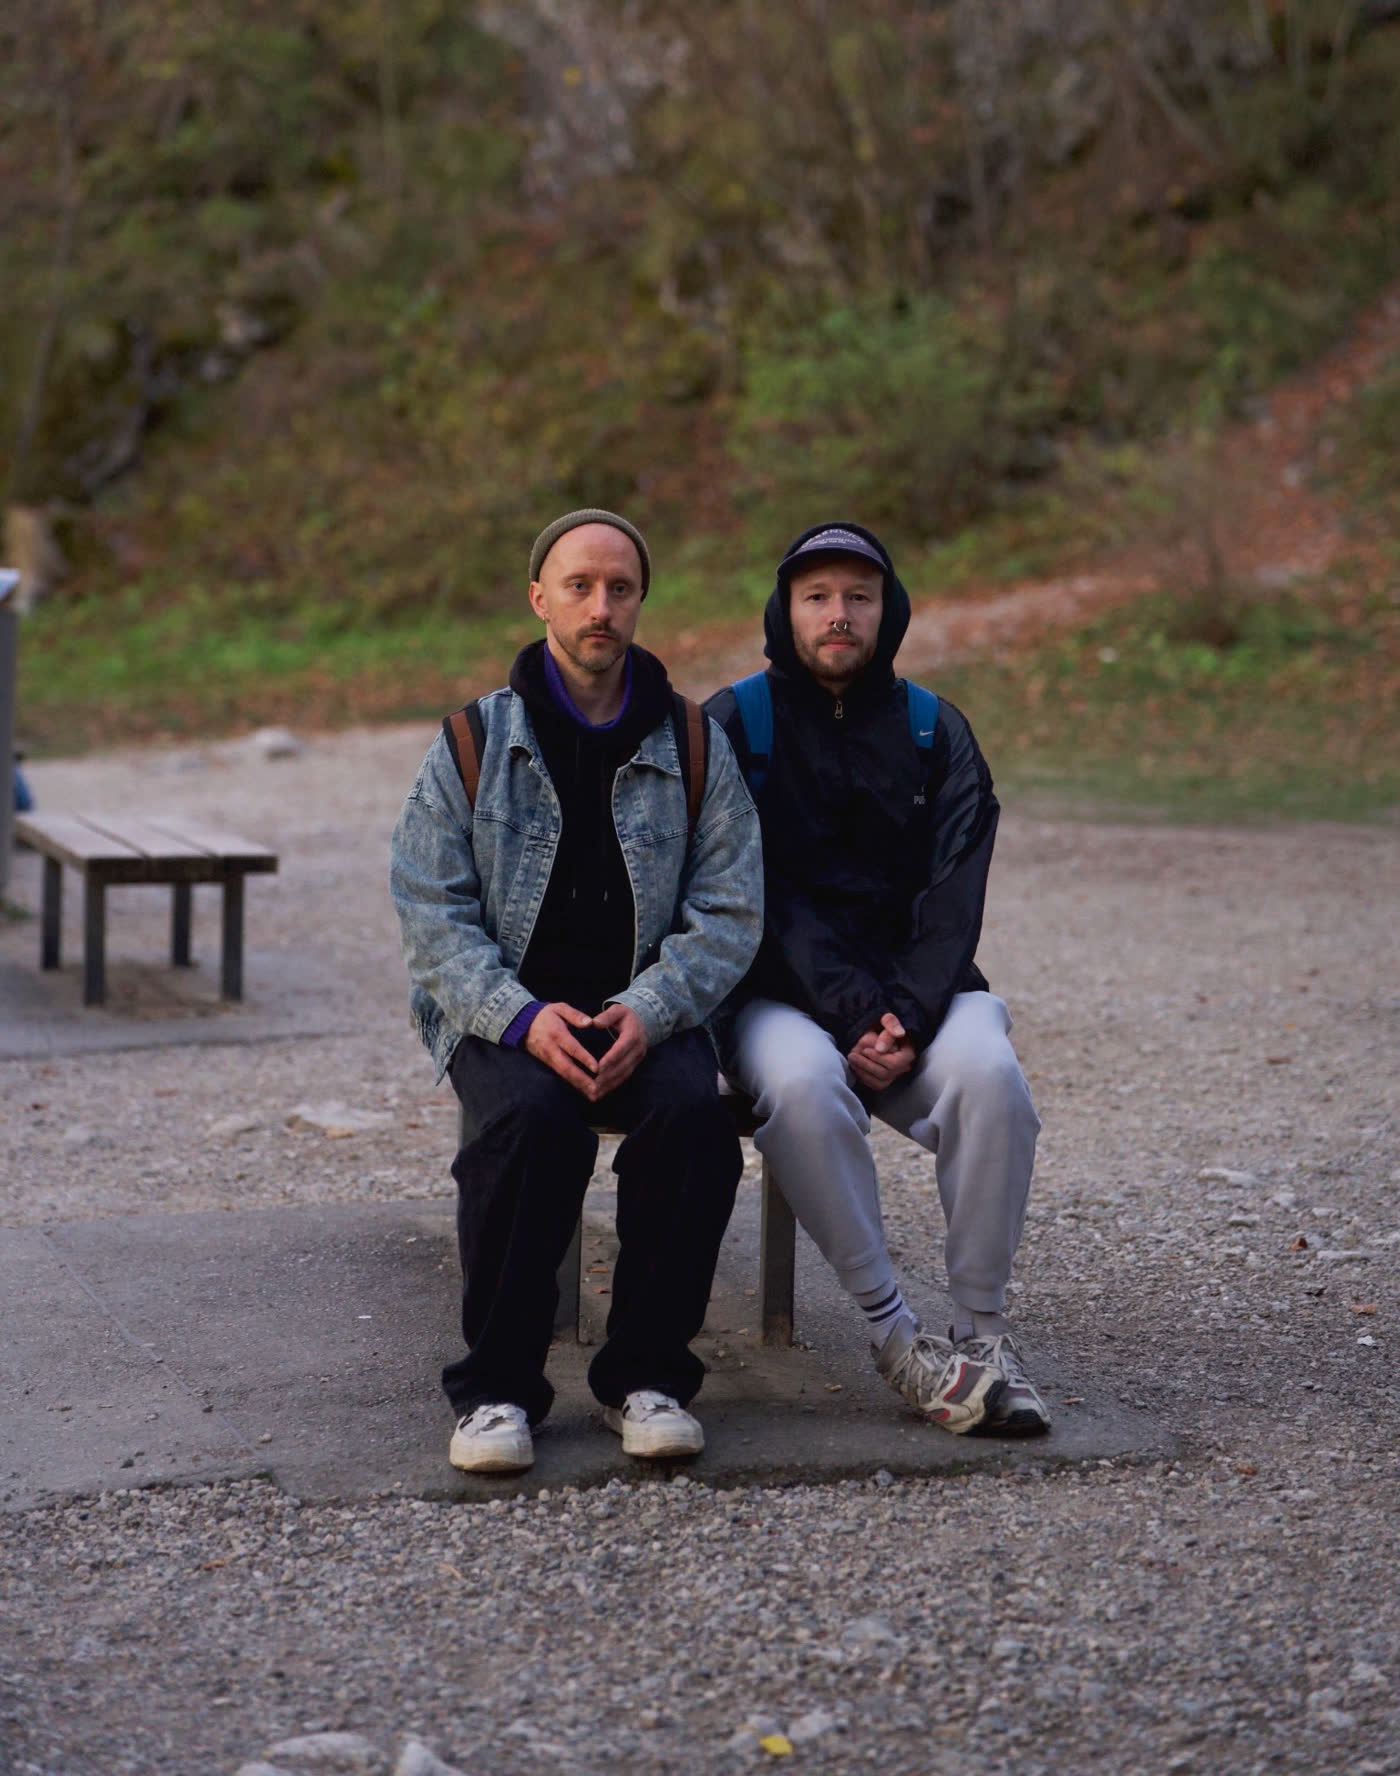
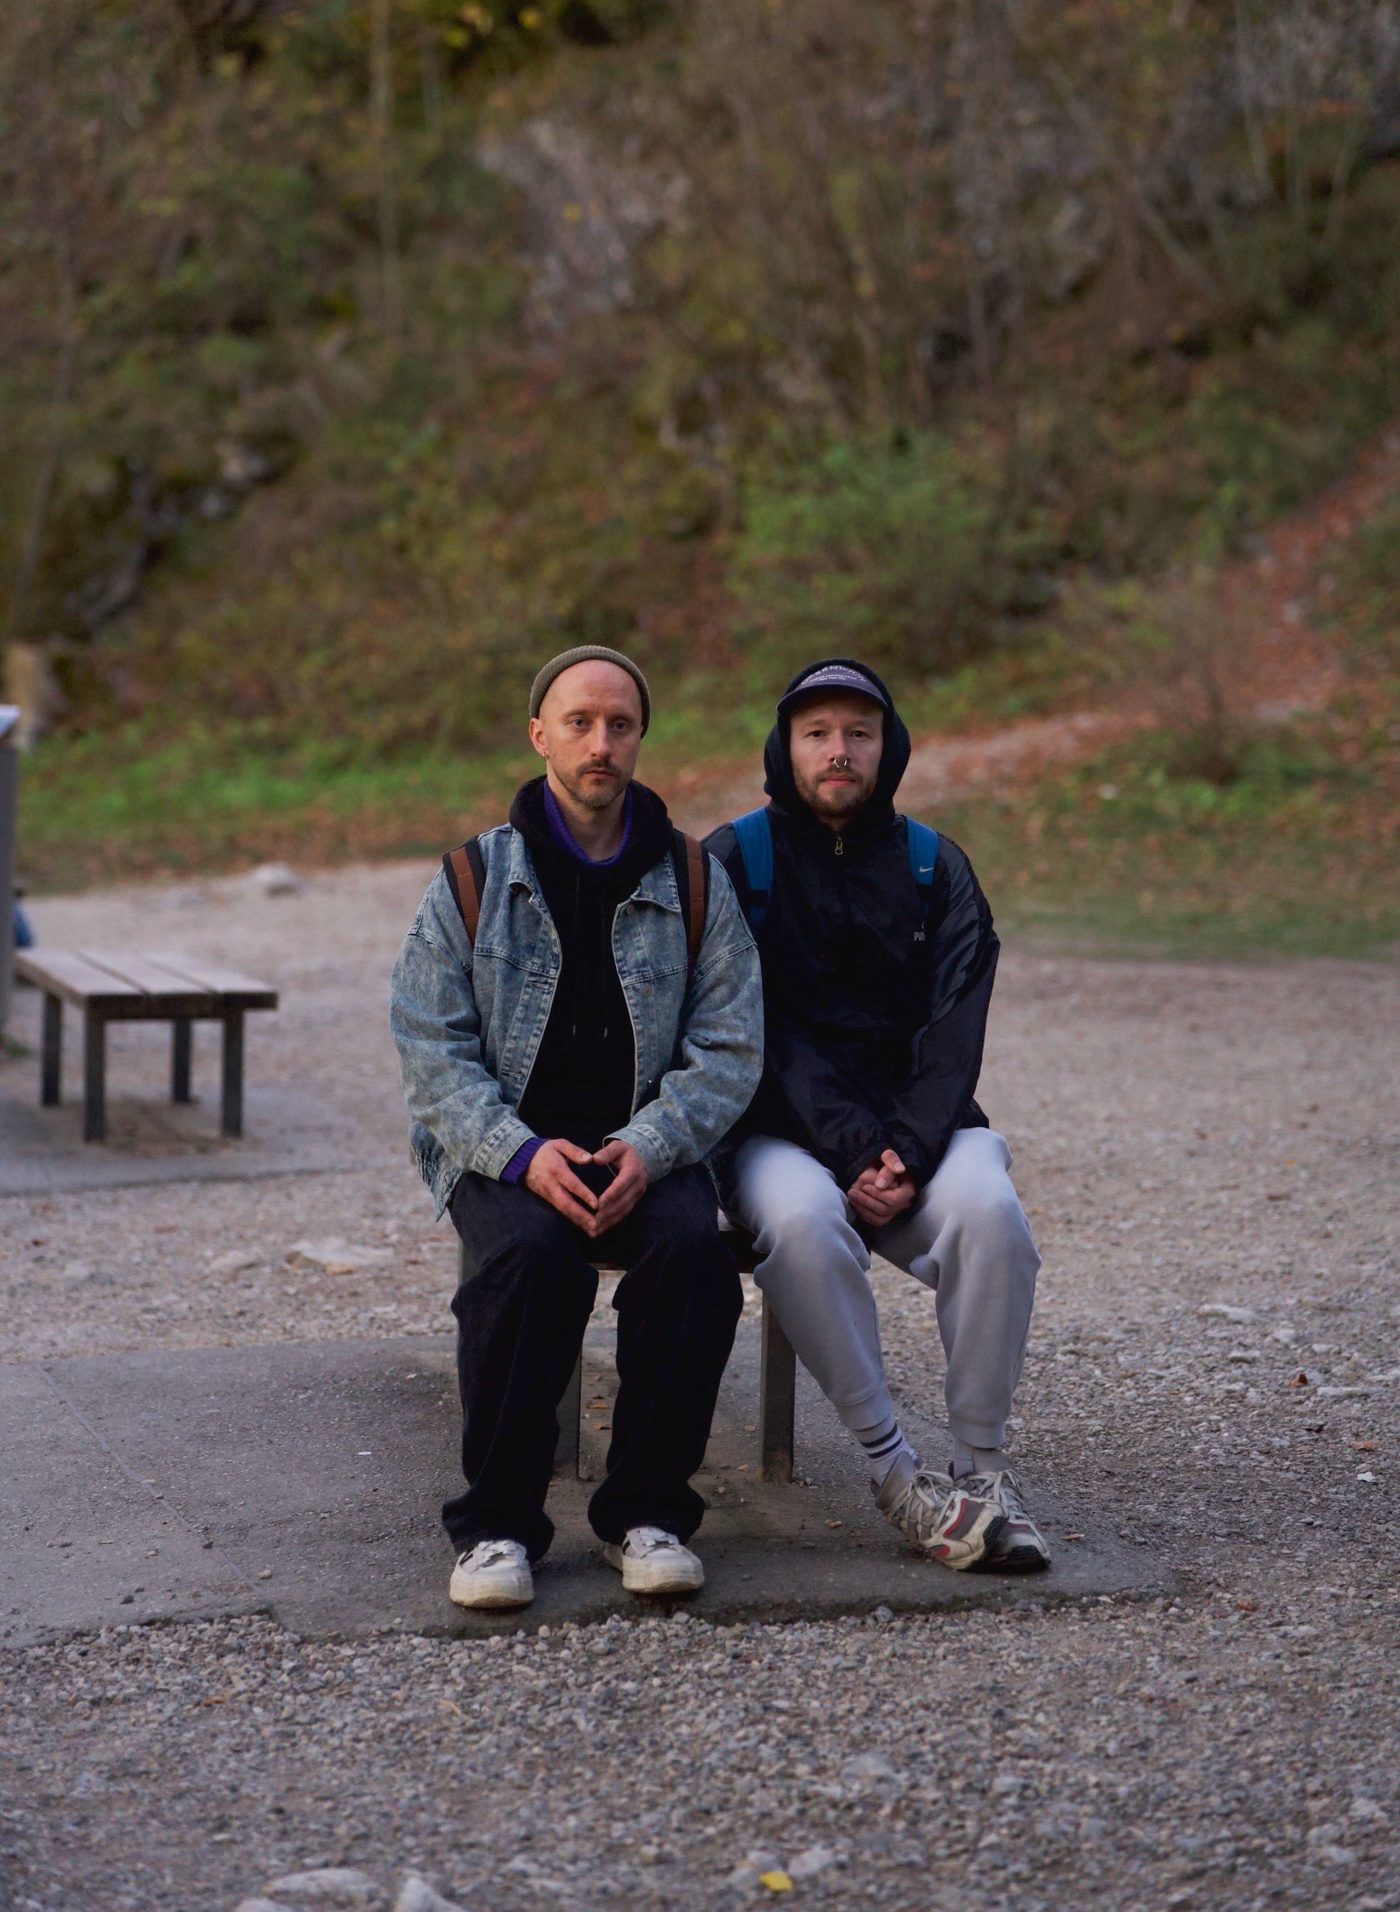
New photo on the play page; the photo keeps its real colours in light mode
Claude-Session: https://claude.ai/code/session_0112eXjUsvc9U8MgA6Gj25Ls

diff --git a/assets/css/fun.css b/assets/css/fun.css
@@ -17,8 +17,9 @@
 }
 /* Videos and photos behind the text: lifted and softened so dark footage turns into a
    light grey wash and black text stays readable on it. */
-:root[data-theme="light"] .bg-video video,
-:root[data-theme="light"] .bg-video img { filter: grayscale(.25) brightness(1.3) contrast(.72); }
+:root[data-theme="light"] .bg-video video { filter: grayscale(.25) brightness(1.3) contrast(.72); }
+/* The play page photo keeps its real colours and contrast in light mode: lifting and
+   softening it turned the whole page into a grey haze. */
 /* Menus stay black in light mode: light mode is only for reading the play */
 :root[data-theme="light"] .corner-menu,
 :root[data-theme="light"] .corner-panel,

diff --git a/de/theater/the-charlie-gordon-effect/index.html b/de/theater/the-charlie-gordon-effect/index.html
@@ -20,7 +20,7 @@
   <link rel="icon" href="/assets/img/favicon-dark.png" media="(prefers-color-scheme: dark)">
   <link rel="stylesheet" href="/assets/css/tokens.css?v=48a5253b">
   <link rel="stylesheet" href="/assets/css/style.css?v=5667a52d">
-  <link rel="stylesheet" href="/assets/css/fun.css?v=492e34a2">
+  <link rel="stylesheet" href="/assets/css/fun.css?v=de349d54">
   <link rel="stylesheet" href="/assets/css/type.css?v=a74bb784">
   <script>try{if(sessionStorage.getItem('stage')==="assets/media/the-charlie-gordon-effect.mp4")document.documentElement.classList.add('stage-lit')}catch(e){}</script>
   <script src="/assets/js/main.js?v=5293f725" defer></script>

diff --git a/ru/theater/the-charlie-gordon-effect/index.html b/ru/theater/the-charlie-gordon-effect/index.html
@@ -20,7 +20,7 @@
   <link rel="icon" href="/assets/img/favicon-dark.png" media="(prefers-color-scheme: dark)">
   <link rel="stylesheet" href="/assets/css/tokens.css?v=48a5253b">
   <link rel="stylesheet" href="/assets/css/style.css?v=5667a52d">
-  <link rel="stylesheet" href="/assets/css/fun.css?v=492e34a2">
+  <link rel="stylesheet" href="/assets/css/fun.css?v=de349d54">
   <link rel="stylesheet" href="/assets/css/type.css?v=a74bb784">
   <script>try{if(sessionStorage.getItem('stage')==="assets/media/the-charlie-gordon-effect.mp4")document.documentElement.classList.add('stage-lit')}catch(e){}</script>
   <script src="/assets/js/main.js?v=5293f725" defer></script>

diff --git a/theater/the-charlie-gordon-effect/index.html b/theater/the-charlie-gordon-effect/index.html
@@ -20,7 +20,7 @@
   <link rel="icon" href="/assets/img/favicon-dark.png" media="(prefers-color-scheme: dark)">
   <link rel="stylesheet" href="/assets/css/tokens.css?v=48a5253b">
   <link rel="stylesheet" href="/assets/css/style.css?v=5667a52d">
-  <link rel="stylesheet" href="/assets/css/fun.css?v=492e34a2">
+  <link rel="stylesheet" href="/assets/css/fun.css?v=de349d54">
   <link rel="stylesheet" href="/assets/css/type.css?v=a74bb784">
   <script>try{if(sessionStorage.getItem('stage')==="assets/media/the-charlie-gordon-effect.mp4")document.documentElement.classList.add('stage-lit')}catch(e){}</script>
   <script src="/assets/js/main.js?v=5293f725" defer></script>

diff --git a/de/playwriting/open-relationship/index.html b/de/playwriting/open-relationship/index.html
@@ -20,7 +20,7 @@
   <link rel="icon" href="/assets/img/favicon-dark.png" media="(prefers-color-scheme: dark)">
   <link rel="stylesheet" href="/assets/css/tokens.css?v=48a5253b">
   <link rel="stylesheet" href="/assets/css/style.css?v=5667a52d">
-  <link rel="stylesheet" href="/assets/css/fun.css?v=492e34a2">
+  <link rel="stylesheet" href="/assets/css/fun.css?v=de349d54">
   <link rel="stylesheet" href="/assets/css/type.css?v=a74bb784">
   <script>try{if(sessionStorage.getItem('stage')==="assets/img/open-relationship.jpg")document.documentElement.classList.add('stage-lit')}catch(e){}</script>
   <script src="/assets/js/main.js?v=5293f725" defer></script>

diff --git a/de/theater/iran-conference/index.html b/de/theater/iran-conference/index.html
@@ -20,7 +20,7 @@
   <link rel="icon" href="/assets/img/favicon-dark.png" media="(prefers-color-scheme: dark)">
   <link rel="stylesheet" href="/assets/css/tokens.css?v=48a5253b">
   <link rel="stylesheet" href="/assets/css/style.css?v=5667a52d">
-  <link rel="stylesheet" href="/assets/css/fun.css?v=492e34a2">
+  <link rel="stylesheet" href="/assets/css/fun.css?v=de349d54">
   <link rel="stylesheet" href="/assets/css/type.css?v=a74bb784">
   <script>try{if(sessionStorage.getItem('stage')==="assets/media/iran-conference.mp4")document.documentElement.classList.add('stage-lit')}catch(e){}</script>
   <script src="/assets/js/main.js?v=5293f725" defer></script>

diff --git a/open-relationship-de/index.html b/open-relationship-de/index.html
@@ -20,7 +20,7 @@
   <link rel="icon" href="/assets/img/favicon-dark.png" media="(prefers-color-scheme: dark)">
   <link rel="stylesheet" href="/assets/css/tokens.css?v=48a5253b">
   <link rel="stylesheet" href="/assets/css/style.css?v=5667a52d">
-  <link rel="stylesheet" href="/assets/css/fun.css?v=492e34a2">
+  <link rel="stylesheet" href="/assets/css/fun.css?v=de349d54">
   <link rel="stylesheet" href="/assets/css/type.css?v=a74bb784">
   <script>try{if(sessionStorage.getItem('stage')==="assets/img/open-relationship.jpg")document.documentElement.classList.add('stage-lit')}catch(e){}</script>
   <script src="/assets/js/main.js?v=5293f725" defer></script>

diff --git a/open-relationship-en/index.html b/open-relationship-en/index.html
@@ -20,7 +20,7 @@
   <link rel="icon" href="/assets/img/favicon-dark.png" media="(prefers-color-scheme: dark)">
   <link rel="stylesheet" href="/assets/css/tokens.css?v=48a5253b">
   <link rel="stylesheet" href="/assets/css/style.css?v=5667a52d">
-  <link rel="stylesheet" href="/assets/css/fun.css?v=492e34a2">
+  <link rel="stylesheet" href="/assets/css/fun.css?v=de349d54">
   <link rel="stylesheet" href="/assets/css/type.css?v=a74bb784">
   <script>try{if(sessionStorage.getItem('stage')==="assets/img/open-relationship.jpg")document.documentElement.classList.add('stage-lit')}catch(e){}</script>
   <script src="/assets/js/main.js?v=5293f725" defer></script>

diff --git a/open-relationship-ru/index.html b/open-relationship-ru/index.html
@@ -20,7 +20,7 @@
   <link rel="icon" href="/assets/img/favicon-dark.png" media="(prefers-color-scheme: dark)">
   <link rel="stylesheet" href="/assets/css/tokens.css?v=48a5253b">
   <link rel="stylesheet" href="/assets/css/style.css?v=5667a52d">
-  <link rel="stylesheet" href="/assets/css/fun.css?v=492e34a2">
+  <link rel="stylesheet" href="/assets/css/fun.css?v=de349d54">
   <link rel="stylesheet" href="/assets/css/type.css?v=a74bb784">
   <script>try{if(sessionStorage.getItem('stage')==="assets/img/open-relationship.jpg")document.documentElement.classList.add('stage-lit')}catch(e){}</script>
   <script src="/assets/js/main.js?v=5293f725" defer></script>

diff --git a/playwriting/open-relationship/index.html b/playwriting/open-relationship/index.html
@@ -20,7 +20,7 @@
   <link rel="icon" href="/assets/img/favicon-dark.png" media="(prefers-color-scheme: dark)">
   <link rel="stylesheet" href="/assets/css/tokens.css?v=48a5253b">
   <link rel="stylesheet" href="/assets/css/style.css?v=5667a52d">
-  <link rel="stylesheet" href="/assets/css/fun.css?v=492e34a2">
+  <link rel="stylesheet" href="/assets/css/fun.css?v=de349d54">
   <link rel="stylesheet" href="/assets/css/type.css?v=a74bb784">
   <script>try{if(sessionStorage.getItem('stage')==="assets/img/open-relationship.jpg")document.documentElement.classList.add('stage-lit')}catch(e){}</script>
   <script src="/assets/js/main.js?v=5293f725" defer></script>

diff --git a/ru/playwriting/open-relationship/index.html b/ru/playwriting/open-relationship/index.html
@@ -20,7 +20,7 @@
   <link rel="icon" href="/assets/img/favicon-dark.png" media="(prefers-color-scheme: dark)">
   <link rel="stylesheet" href="/assets/css/tokens.css?v=48a5253b">
   <link rel="stylesheet" href="/assets/css/style.css?v=5667a52d">
-  <link rel="stylesheet" href="/assets/css/fun.css?v=492e34a2">
+  <link rel="stylesheet" href="/assets/css/fun.css?v=de349d54">
   <link rel="stylesheet" href="/assets/css/type.css?v=a74bb784">
   <script>try{if(sessionStorage.getItem('stage')==="assets/img/open-relationship.jpg")document.documentElement.classList.add('stage-lit')}catch(e){}</script>
   <script src="/assets/js/main.js?v=5293f725" defer></script>

diff --git a/ru/theater/iran-conference/index.html b/ru/theater/iran-conference/index.html
@@ -20,7 +20,7 @@
   <link rel="icon" href="/assets/img/favicon-dark.png" media="(prefers-color-scheme: dark)">
   <link rel="stylesheet" href="/assets/css/tokens.css?v=48a5253b">
   <link rel="stylesheet" href="/assets/css/style.css?v=5667a52d">
-  <link rel="stylesheet" href="/assets/css/fun.css?v=492e34a2">
+  <link rel="stylesheet" href="/assets/css/fun.css?v=de349d54">
   <link rel="stylesheet" href="/assets/css/type.css?v=a74bb784">
   <script>try{if(sessionStorage.getItem('stage')==="assets/media/iran-conference.mp4")document.documentElement.classList.add('stage-lit')}catch(e){}</script>
   <script src="/assets/js/main.js?v=5293f725" defer></script>
